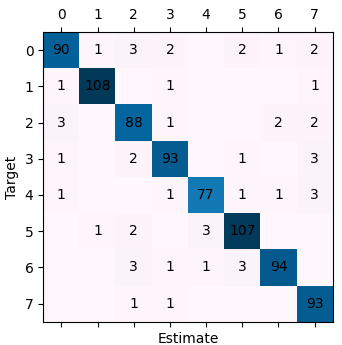
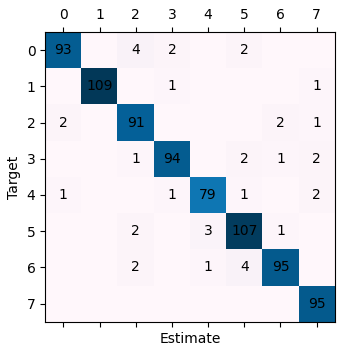
Fixed set of C for SVM; Best params printout for SVM

diff --git a/main.py b/main.py
@@ -43,9 +43,10 @@ def train_LR(X_train, X_test, y_train, y_test):
 
 def train_SVM(X_train, X_test, y_train, y_test):
     svc = LinearSVC(max_iter=10000, random_state=42)
-    parameters = {'C': np.logspace(1e-10, 100, 50)}
+    parameters = {'C': np.logspace(-5, 0, 100)}
     clf = GridSearchCV(svc, parameters, scoring='accuracy', n_jobs=-1, cv=5, verbose=3)
     clf.fit(X_train, y_train)
+    print(f'Best params:\n{clf.best_params_}')
 
     test(clf, X_train, X_test, y_train, y_test)
 
@@ -72,8 +73,8 @@ def main():
     X_test_transformed = pipe.transform(X_test)
 
     # train_LR(X_train_transformed, X_test_transformed, y_train, y_test)
-    # train_SVM(X_train_transformed, X_test_transformed, y_train, y_test)
-    train_CART(X_train_transformed, X_test_transformed, y_train, y_test)
+    train_SVM(X_train_transformed, X_test_transformed, y_train, y_test)
+    # train_CART(X_train_transformed, X_test_transformed, y_train, y_test)
 
 
 if __name__ == '__main__':

diff --git a/report/REPORT.md b/report/REPORT.md
@@ -73,7 +73,11 @@ scheme which is more efficient than _OvO_. Also, our data is balances, so _OvR_ 
 train_SVM
 ```
 
-Accuracy: 94%
+| Param | Best value |
+|-------|------------|
+| C     | 0.06       |
+
+Accuracy: 95%
 
 Accuracy (train): 100%
 
